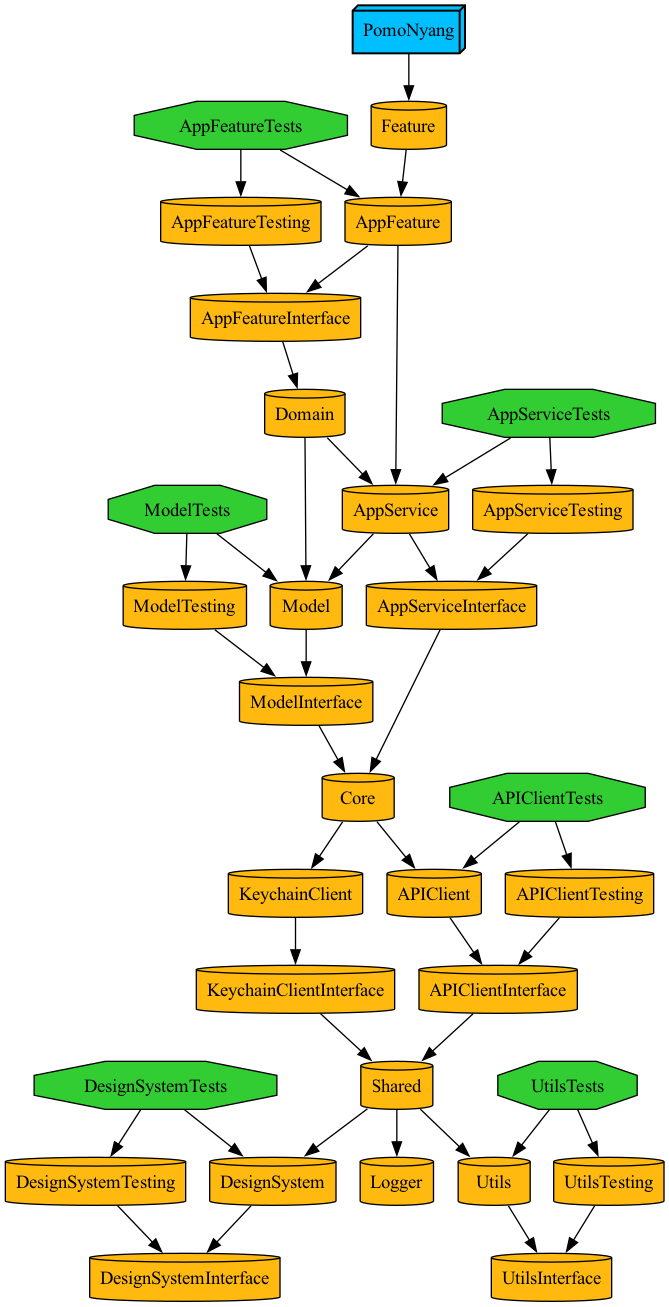
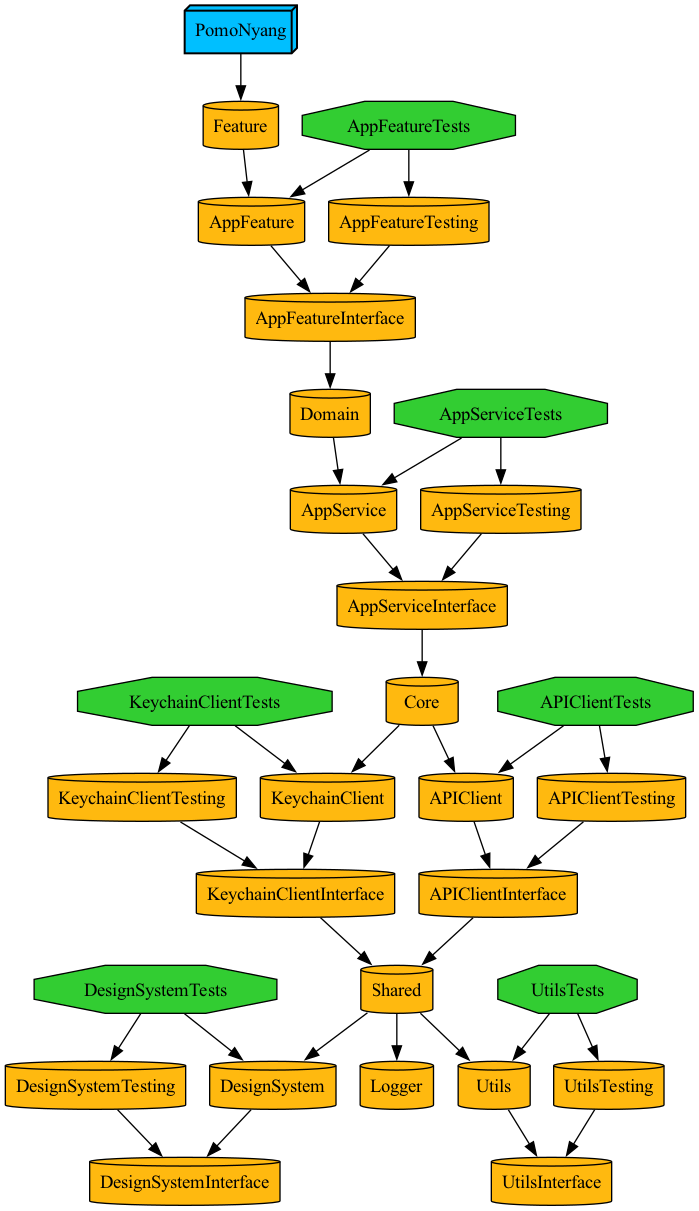
FEAT: KeychainClient 기능 구현

diff --git a/Projects/Core/KeychainClient/Interface/Interface.swift b/Projects/Core/KeychainClient/Interface/Interface.swift
@@ -8,58 +8,44 @@
 
 import Foundation
 
-//import DependenciesMacros
 import Dependencies
+import DependenciesMacros
 
-//@DependencyClient
+@DependencyClient
 public struct KeychainClient {
-  public var create: @Sendable (String, String) -> Bool
-  public var read: @Sendable (String) -> String?
-  public var update: @Sendable (String, String) -> Bool
-  public var delete: @Sendable (String) -> Bool
+  public var create: @Sendable (_ key: String, _ data: String) -> Bool = { _, _ in true }
+  
+  public var read: @Sendable (_ key: String) -> String?
+  
+  public var update: @Sendable (_ key: String, _ data: String) -> Bool = { _, _ in true }
+  
+  public var delete: @Sendable (_ key: String) -> Bool = { _ in true }
+  
   public var deleteAll: @Sendable () -> Void
   
-//  public func setAPIKey(_ apiKey: String) {
-//    _ = create(apiKey_key, apiKey)
-//  }
-//  
-//  public func getAPIKey() -> String? {
-//    return read(apiKey_key)
-//  }
-//  
-//  /// 앱 재설치시 이전 키체인 데이터를 제거
-//  public func checkSubsequentRun() {
-//    let isSubsequentRun: Bool = UserDefaults.standard.bool(forKey: isSubsequentRun_key)
-//    if !isSubsequentRun {
-//      deleteAll()
-//      UserDefaults.standard.setValue(true, forKey: isSubsequentRun_key)
-//    }
-//  }
-  
-  public init(
-    create: @Sendable @escaping (_: String, _: String) -> Bool,
-    read: @Sendable @escaping (_: String) -> String?,
-    update: @Sendable @escaping (_: String, _: String) -> Bool,
-    delete: @Sendable @escaping (_: String) -> Bool,
-    deleteAll: @Sendable  @escaping () -> Void
-  ) {
-    self.create = create
-    self.read = read
-    self.update = update
-    self.delete = delete
-    self.deleteAll = deleteAll
+  /// 앱 재설치시 이전 키체인 데이터를 제거
+  public func checkSubsequentRun() {
+    let isSubsequentRun: Bool = UserDefaults.standard.bool(forKey: isSubsequentRun_key)
+    if !isSubsequentRun {
+      deleteAll()
+      UserDefaults.standard.setValue(true, forKey: isSubsequentRun_key)
+    }
   }
 }
 
-let isSubsequentRun_key: String = "kimcaddie_userdefaults_key_isSubsequentRun"
-let apiKey_key: String = "kimcaddie_keychain_key_apiKey"
+let isSubsequentRun_key: String = "userdefaults_key_isSubsequentRun"
 
 
 // MARK: - DependencyValues
 
-//extension DependencyValues {
-//  public var keychainClient: KeychainClient {
-//    get { self[KeychainClient.self] }
-//    set { self[KeychainClient.self] = newValue }
-//  }
-//}
+extension DependencyValues {
+  public var keychainClient: KeychainClient {
+    get { self[KeychainClient.self] }
+    set { self[KeychainClient.self] = newValue }
+  }
+}
+
+extension KeychainClient: TestDependencyKey {
+  public static let previewValue = Self()
+  public static let testValue = Self()
+}

diff --git a/Projects/Core/KeychainClient/Tests/Tests.swift b/Projects/Core/KeychainClient/Tests/Tests.swift
@@ -1,0 +1,41 @@
+//
+//  Tests.swift
+//  KeychainClientTests
+//
+//  Created by devMinseok on 7/20/24.
+//  Copyright © 2024 PomoNyang. All rights reserved.
+//
+
+import XCTest
+
+import KeychainClient
+import KeychainClientTesting
+
+import Dependencies
+
+final class Tests: XCTestCase {
+  @Dependency(\.keychainClient) var keychainClient
+  
+  override func setUp() {
+    withDependencies {
+      $0.keychainClient = .mock
+    } operation: {}
+    super.setUp()
+  }
+  
+  override func setUpWithError() throws {}
+  
+  override func tearDownWithError() throws {}
+  
+  func testExample() throws {
+    // given
+    let testKey = "TestKey"
+    let testValue = "TestValue"
+    
+    // when
+    let result = keychainClient.create(key: testKey, data: testValue)
+    
+    // then
+    XCTAssertEqual(result, true)
+  }
+}

diff --git a/Projects/Core/KeychainClient/Testing/TestKey.swift b/Projects/Core/KeychainClient/Testing/TestKey.swift
@@ -1,0 +1,30 @@
+//
+//  TestKey.swift
+//  KeychainClient
+//
+//  Created by devMinseok on 7/20/24.
+//  Copyright © 2024 PomoNyang. All rights reserved.
+//
+
+import KeychainClientInterface
+
+import Dependencies
+
+extension KeychainClient {
+  public static let mock = Self(
+    create: { _, _ in
+      return true
+    },
+    read: { value in
+      return value
+    },
+    update: { _, _ in
+      return true
+    },
+    delete: { _ in
+      return true
+    },
+    deleteAll: {
+    }
+  )
+}

diff --git a/Projects/Core/KeychainClient/Project.swift b/Projects/Core/KeychainClient/Project.swift
@@ -10,12 +10,12 @@ let project: Project = .makeTMABasedProject(
   scripts: [],
   targets: [
     .sources,
-    .interface
+    .interface,
+    .tests,
+    .testing
   ],
   dependencies: [
-    .sources: [
-      
-    ],
+    .sources: [],
     .interface: [
       .dependency(rootModule: Shared.self),
     ]

diff --git a/Projects/Feature/AppFeature/Project.swift b/Projects/Feature/AppFeature/Project.swift
@@ -15,9 +15,7 @@ let project: Project = .makeTMABasedProject(
     .testing
   ],
   dependencies: [
-    .sources: [
-      .dependency(module: Domain.AppService),
-    ],
+    .sources: [],
     .interface: [
       .dependency(rootModule: Domain.self),
     ]

diff --git a/Projects/Core/APIClient/Project.swift b/Projects/Core/APIClient/Project.swift
@@ -15,9 +15,7 @@ let project: Project = .makeTMABasedProject(
     .testing
   ],
   dependencies: [
-    .sources: [
-//      .dependency(module: Shared.Utils)
-    ],
+    .sources: [],
     .interface: [
       .dependency(rootModule: Shared.self),
     ]

diff --git a/Projects/Domain/AppService/Project.swift b/Projects/Domain/AppService/Project.swift
@@ -15,9 +15,7 @@ let project: Project = .makeTMABasedProject(
     .testing
   ],
   dependencies: [
-    .sources: [
-      .dependency(module: Domain.Model)
-    ],
+    .sources: [],
     .interface: [
       .dependency(rootModule: Core.self),
     ]

diff --git a/Projects/Core/KeychainClient/Sources/implementation.swift b/Projects/Core/KeychainClient/Sources/implementation.swift
@@ -1,5 +1,5 @@
 //
-//  LiveKey.swift
+//  Implementation.swift
 //  KeychainClient
 //
 //  Created by devMinseok on 7/20/24.

diff --git a/Projects/Domain/Domain/Sources/Exports.swift b/Projects/Domain/Domain/Sources/Exports.swift
@@ -8,4 +8,3 @@
 
 @_exported import AppService
 @_exported import AppServiceInterface
-@_exported import Model
